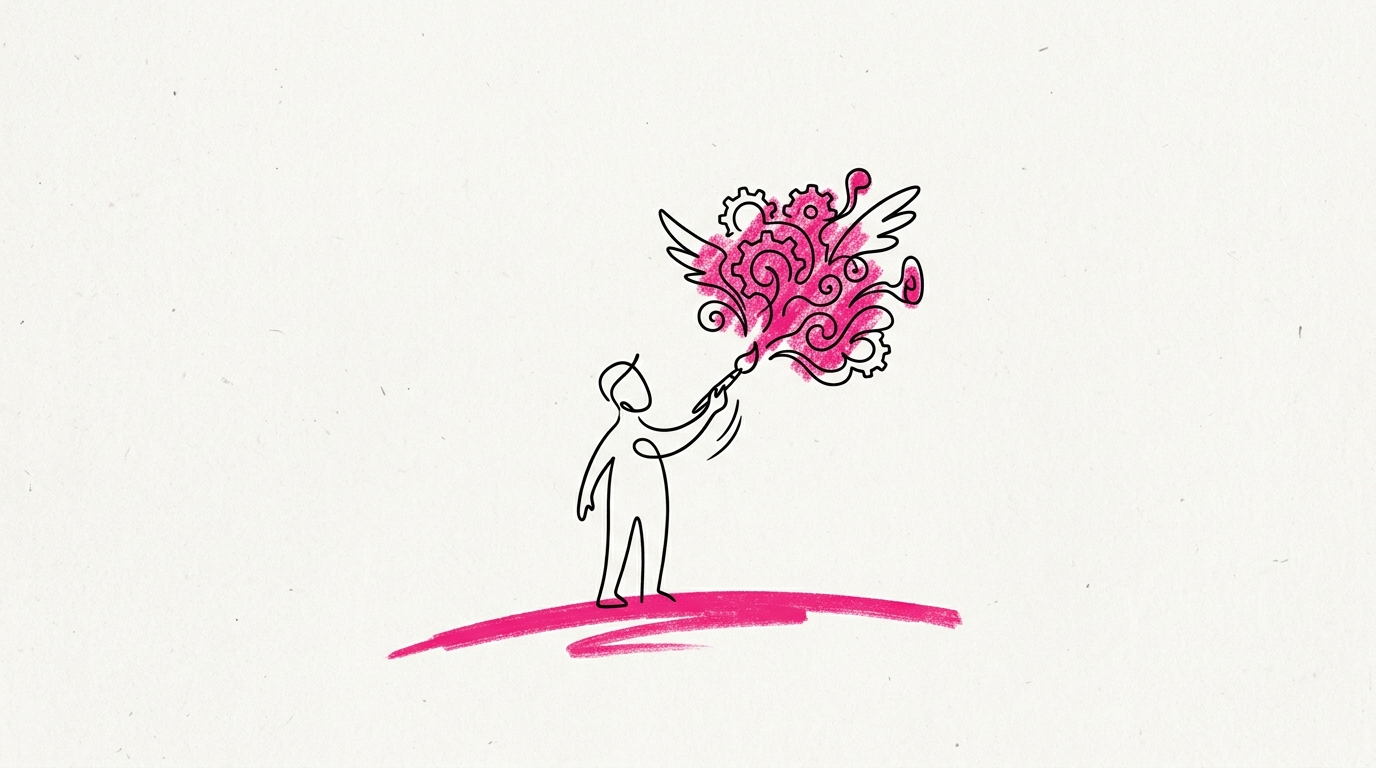
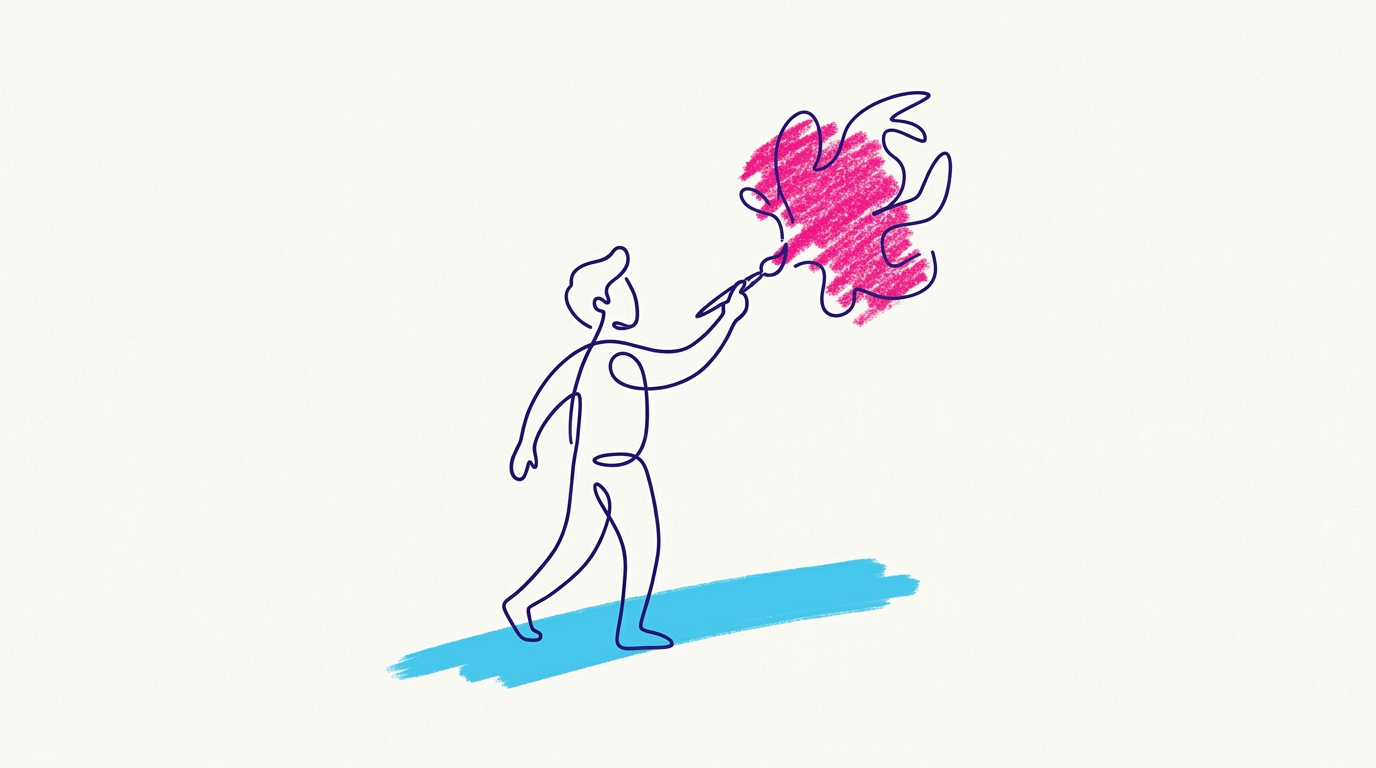
Put all three brand colors in cover images
Line art moves from black to indigo #30197C (Core), the ground stroke from
magenta to cyan #41C5EE (Action), and magenta #FF0082 stays as the single
filled accent — matching the 60/30/10 proportions in brand/colors.md.

Regenerates all ten covers and rebuilds images/for-upload/. The live Joy
article picks the new version up on its own: its image URL is unchanged, so
overwriting the file behind it is enough.

Claude-Session: https://claude.ai/code/session_01VWkHX1F2RoSEjnoTiSEDRw

Changed region(s): [[0.2812, 0.0938, 0.7188, 0.9062]]

diff --git a/scripts/gen_cover.py b/scripts/gen_cover.py
@@ -43,16 +43,16 @@ EXT = {"image/png": ".png", "image/jpeg": ".jpg", "image/webp": ".webp"}
 
 # Verbatim brand template from TASK.md STEP 5.5. Keep in sync with that file.
 PROMPT_TEMPLATE = (
-    "Minimalist black line art doodle on a plain, textured off-white background. "
-    "A main character, drawn with a single continuous fluid black line, is "
-    "{action}. The composition uses the absolute minimum number of strokes to "
-    "define forms — essential lines only, leaving vast empty space. One key "
-    "element ({key_element}) is filled with a textured magenta (#FF0082) "
-    "crayon-like block of color. A final, single, broad magenta (#FF0082) brush "
-    "stroke defines the environment beneath them, suggesting the location with "
-    "extreme economy. Style is raw, quick, and conceptual; zero rendering, zero "
-    "shading. No readable text or logos. Centre the subject in the frame with "
-    "balanced margins on both sides."
+    "Minimalist Indigo #30197C line art doodle on a plain, textured off-white "
+    "background. A main character, drawn with a single continuous fluid Indigo "
+    "#30197C line, is {action}. The composition uses the absolute minimum "
+    "number of strokes to define forms — essential lines only, leaving vast "
+    "empty space. One key element ({key_element}) is filled with a textured "
+    "magenta (#FF0082) crayon-like block of color. A final, single, broad cyan "
+    "(#41C5EE) brush stroke defines the environment beneath them, suggesting "
+    "the location with extreme economy. Style is raw, quick, and conceptual; "
+    "zero rendering, zero shading. No readable text or logos. Centre the "
+    "subject in the frame with balanced margins on both sides."
 )
 
 

diff --git a/TASK.md b/TASK.md
@@ -158,21 +158,23 @@ quota limit on 2026-08-24 and blocked cover generation entirely.
 **Cover image prompt template** — this is what `gen_cover.py` sends; it is
 reproduced here so the wording stays reviewable. Keep the two in sync.
 
-> Minimalist black line art doodle on a plain, textured off-white background.
-> A main character, drawn with a single continuous fluid black line, is
-> [ACTION related to the article topic]. The composition uses the absolute
-> minimum number of strokes to define forms — essential lines only, leaving
-> vast empty space. One key element ([KEY ELEMENT]) is filled with a textured
-> magenta (#FF0082) crayon-like block of color. A final, single, broad magenta
-> (#FF0082) brush stroke defines the environment beneath them, suggesting the
-> location with extreme economy. Style is raw, quick, and conceptual; zero
-> rendering, zero shading. No readable text or logos.
+> Minimalist Indigo #30197C line art doodle on a plain, textured off-white
+> background. A main character, drawn with a single continuous fluid Indigo
+> #30197C line, is [ACTION related to the article topic]. The composition uses
+> the absolute minimum number of strokes to define forms — essential lines only,
+> leaving vast empty space. One key element ([KEY ELEMENT]) is filled with a
+> textured magenta (#FF0082) crayon-like block of color. A final, single, broad
+> cyan (#41C5EE) brush stroke defines the environment beneath them, suggesting
+> the location with extreme economy. Style is raw, quick, and conceptual; zero
+> rendering, zero shading. No readable text or logos. Centre the subject in the
+> frame with balanced margins on both sides.
 
-Brand color reference: `brand/colors.md`. The magenta `#FF0082` is TokyLabs'
-Creativity/STEAM accent — use it consistently for the filled element and ground
-stroke in every cover image. The model approximates the hex rather than matching
-it exactly; the centring instruction at the end of the template matters, without
-it the subject crowds one edge.
+Brand color reference: `brand/colors.md`. Every cover uses all three main brand
+colors in their intended proportions: indigo `#30197C` for the line art (Core,
+dominant), cyan `#41C5EE` for the ground stroke (Action, secondary), magenta
+`#FF0082` for the one filled element (Creativity/STEAM, accent). The model
+approximates each hex rather than matching it exactly; the centring instruction
+at the end of the template matters, without it the subject crowds one edge.
 
 The repo is public, so the raw URL is visible to blog readers. Prefer the
 default branch (`claude/trusting-cannon-fgGop`) once the image is merged there;

diff --git a/brand/colors.md b/brand/colors.md
@@ -8,6 +8,12 @@
 | 04 | Amber | `#FFD200` | Utility 1% | "Critical alerts" |
 
 ## Cover Image Usage
-- **Line art / doodle strokes**: black
+- **Line art / doodle strokes**: Indigo `#30197C` (Core)
 - **Background**: plain textured off-white
-- **Key element fill + ground brush stroke**: Magenta `#FF0082` (Creativity/STEAM accent)
+- **Key element fill**: Magenta `#FF0082` (Creativity/STEAM accent)
+- **Ground brush stroke**: Cyan `#41C5EE` (Action)
+
+All three brand colors appear in every cover, in roughly their intended
+proportions: indigo dominant, cyan secondary, magenta as the accent. The line
+art was black until 2026-08-24; indigo reads as clearly on off-white and puts
+the covers on-brand.
